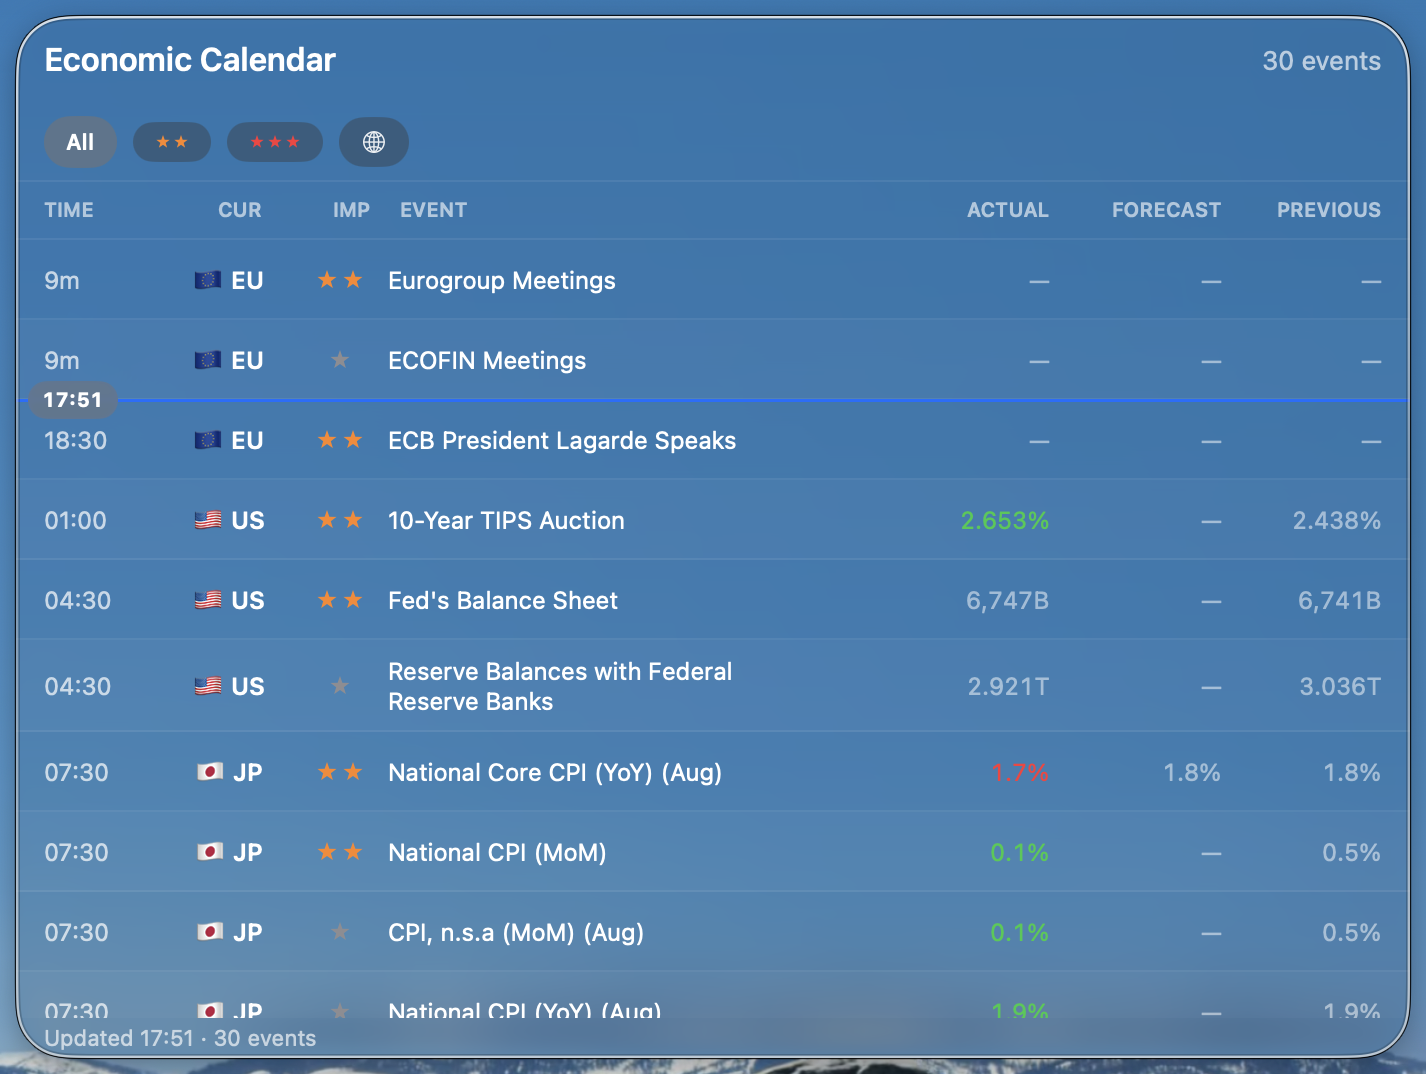
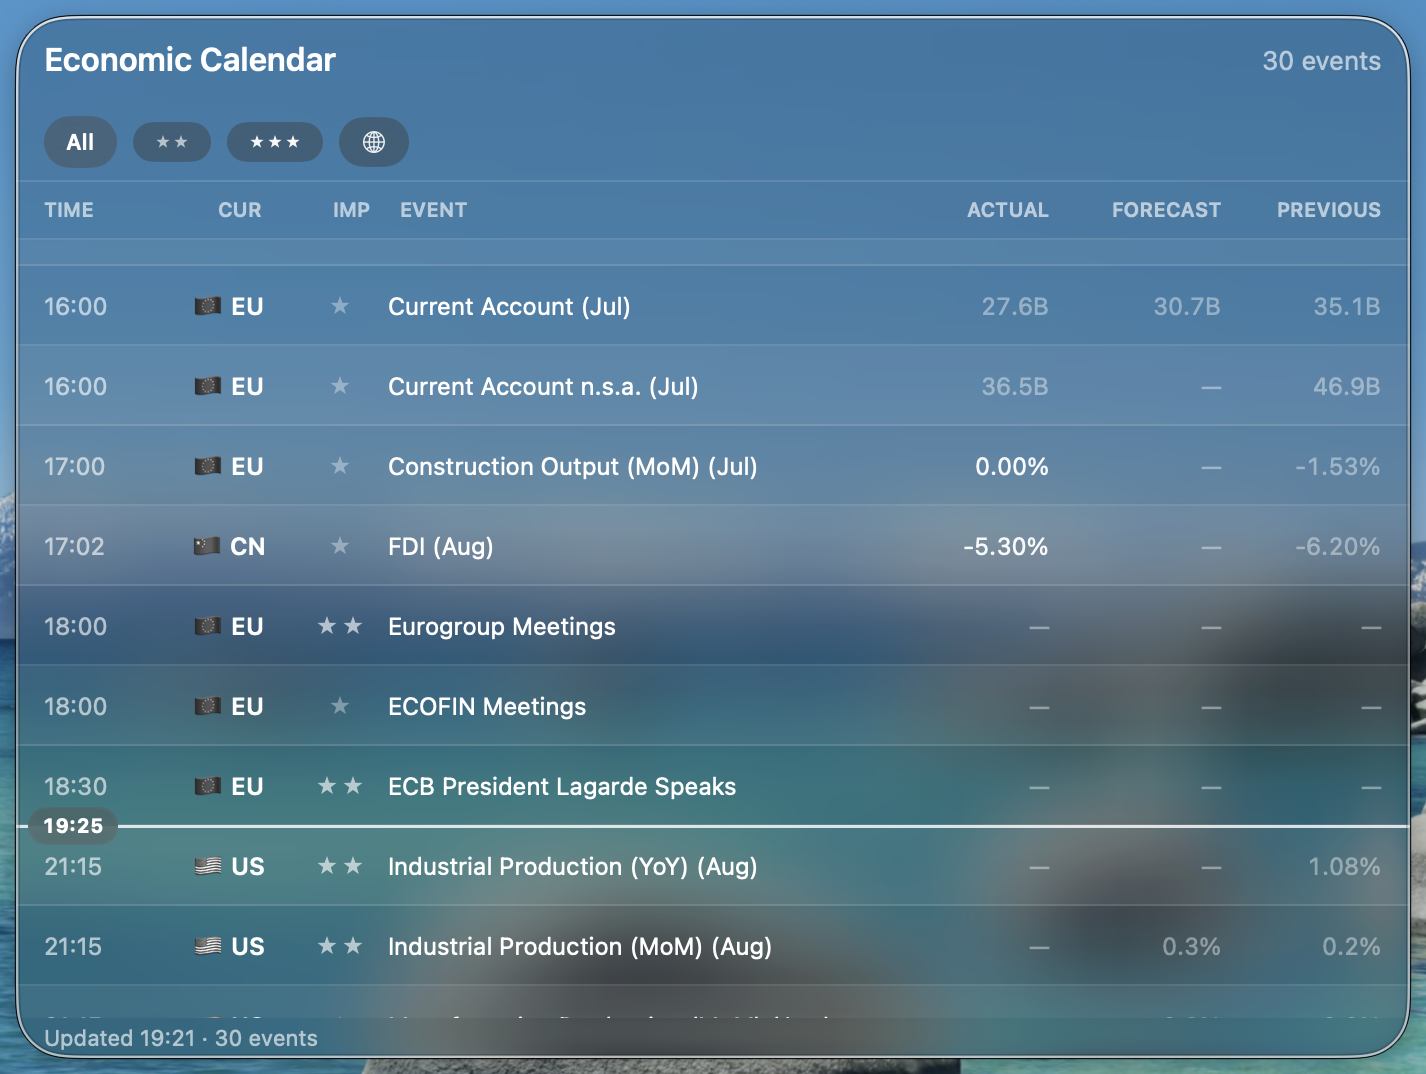
Make the unfocused card follow the appearance instead of forcing white text
- Idle (unfocused) content drops to a monochrome brightness ladder with no
  hue left anywhere: importance stars, beat/miss and the now-divider all ride
  on brightness, flag emoji are desaturated with .grayscale(1), row fills and
  hairlines go neutral.
- IdlePalette resolves every tier per appearance (white alpha in dark mode,
  black alpha in light mode) through NSColor(name:dynamicProvider:), so all
  call sites keep using IdlePalette.x and both appearances come out of one
  table. The white-only ladder was the root cause of the LIGHT card reading as
  a dark slab: white text on the bright glass veil is unreadable, so the card
  had to be scrimmed black first.
- Theme.idleVeil replaces that fixed black scrim with an appearance-matched
  one: dark = black 0.10 (pull the glass lift back to the wallpaper's own tone,
  keep white text legible), light = white 0.16 (bright light widget, keep dark
  text legible). The luminous edge ring drops to 0.10 in light mode, where
  0.20 read as a heavy black outline.
- Verified from live captures: light card sits +26 luminance above a bright
  sky wallpaper and 123 over a dark backdrop (RGB 33) => dark-text contrast
  ~4.9; dark-mode rendering is unchanged.
- Docs: README caption and DESIGN.md 3.2 rewritten; all four live screenshots
  retaken.

diff --git a/swift/Sources/EconomicCalendar/UI/Theme.swift b/swift/Sources/EconomicCalendar/UI/Theme.swift
@@ -1,7 +1,9 @@
+import AppKit
 import SwiftUI
 
 /// True while the card is in the translucent native-widget state (idle):
-/// text and icons switch to the white/gray scheme widgets use.
+/// every label and icon renders in the widget's monochrome scheme (white/gray
+/// tiers in dark mode, dark/gray tiers in light mode).
 private struct WidgetIdleKey: EnvironmentKey {
     static let defaultValue = false
 }
@@ -11,6 +13,50 @@ extension EnvironmentValues {
         get { self[WidgetIdleKey.self] }
         set { self[WidgetIdleKey.self] = newValue }
     }
+}
+
+/// Idle (unfocused) palette. Native desktop widgets render their content
+/// monochrome when the desktop isn't frontmost — every label and icon drops to
+/// one brightness tier, with no hue left anywhere. Semantics the focused card
+/// carries with hue (importance, beat/miss) become brightness tiers here.
+///
+/// The ladder is appearance-adaptive: dark mode keeps the white/gray tiers over
+/// dark glass, light mode mirrors them into dark/gray tiers over the bright
+/// glass veil. A white-text card is only readable if the card is scrimmed
+/// black — and that scrim is what made the unfocused LIGHT card read as a
+/// dark-mode slab instead of a light widget.
+enum IdlePalette {
+    /// One neutral tier, resolved by the effective appearance: white at
+    /// `dark` in dark mode, black at `light` in light mode. Both are the same
+    /// ramp — only the anchor flips — so every call site keeps using the plain
+    /// `IdlePalette.x` constant and both appearances come out of one table.
+    private static func tier(light: CGFloat, dark: CGFloat) -> Color {
+        Color(nsColor: NSColor(name: nil) { appearance in
+            appearance.bestMatch(from: [.aqua, .darkAqua]) == .darkAqua
+                ? NSColor(white: 1, alpha: dark)
+                : NSColor(white: 0, alpha: light)
+        })
+    }
+
+    static let primary = tier(light: 0.88, dark: 1.00)
+    static let secondary = tier(light: 0.55, dark: 0.62)
+    static let tertiary = tier(light: 0.30, dark: 0.40)
+    static let hairline = tier(light: 0.09, dark: 0.12)
+
+    static let rowFill = tier(light: 0.04, dark: 0.05)
+    static let highImpactFill = tier(light: 0.07, dark: 0.10)
+    static let highImpactHover = tier(light: 0.11, dark: 0.16)
+
+    /// Neutral replacement for the accent color (now-divider, selected chips).
+    static let accent = tier(light: 0.65, dark: 0.80)
+    static let accentTint = tier(light: 0.12, dark: 0.22)
+
+    static let starLow = tier(light: 0.30, dark: 0.35)
+    static let starMedium = tier(light: 0.55, dark: 0.62)
+    static let starHigh = tier(light: 0.85, dark: 0.95)
+
+    static let beat = tier(light: 0.85, dark: 0.95)
+    static let miss = tier(light: 0.45, dark: 0.55)
 }
 
 /// Shared metrics, dynamic (light/dark adaptive) colors, and formatters.
@@ -33,12 +79,37 @@ enum Theme {
     static let colForecast: CGFloat = 86
     static let colPrevious: CGFloat = 80
 
-    // Importance star colors: 1 gray / 2 orange / 3 red (investing.com scheme).
-    static func importanceColor(_ level: Importance) -> Color {
+    /// Neutral veil the translucent idle card draws over the glass — the one
+    /// layer that makes the card match its appearance's widget look:
+    /// dark mode darkens slightly (the wallpaper's own tone, white text stays
+    /// legible), light mode lifts slightly (the bright light widget, dark text
+    /// stays legible). Without the light half, dark text sits on whatever the
+    /// wallpaper happens to be, and the card reads as a milky see-through film.
+    static func idleVeil(_ scheme: ColorScheme) -> Color {
+        scheme == .dark ? Color.black.opacity(0.10) : Color.white.opacity(0.16)
+    }
+
+    /// Outer dark ring of the "凝光" card edge. The dark card needs a strong
+    /// ring to separate it from the wallpaper; on the bright light card the
+    /// same value reads as a heavy black outline.
+    static func idleRingOpacity(_ scheme: ColorScheme) -> Double {
+        scheme == .dark ? 0.20 : 0.10
+    }
+
+    // Importance star colors: 1 gray / 2 orange / 3 red (investing.com scheme)
+    // when focused; white/gray brightness tiers when idle.
+    static func importanceColor(_ level: Importance, idle: Bool = false) -> Color {
+        if idle {
+            switch level {
+            case .low: return IdlePalette.starLow
+            case .medium: return IdlePalette.starMedium
+            case .high: return IdlePalette.starHigh
+            }
+        }
         switch level {
-        case .low: Color(nsColor: .systemGray)
-        case .medium: Color(nsColor: .systemOrange)
-        case .high: Color(nsColor: .systemRed)
+        case .low: return Color(nsColor: .systemGray)
+        case .medium: return Color(nsColor: .systemOrange)
+        case .high: return Color(nsColor: .systemRed)
         }
     }
 

diff --git a/swift/Sources/EconomicCalendar/UI/EventRowView.swift b/swift/Sources/EconomicCalendar/UI/EventRowView.swift
@@ -41,7 +41,7 @@ struct EventRowView: View {
         .background(rowBackground)
         .overlay(alignment: .bottom) {
             Rectangle()
-                .fill(Color.primary.opacity(0.08))
+                .fill(widgetIdle ? IdlePalette.hairline : Color.primary.opacity(0.08))
                 .frame(height: 1)
         }
         .contentShape(Rectangle())
@@ -62,7 +62,7 @@ struct EventRowView: View {
     private var timeCell: some View {
         Text(event.timeText)
             .font(.system(size: 12))
-            .foregroundStyle(widgetIdle ? Color.white.opacity(0.7) : Color.secondary)
+            .foregroundStyle(widgetIdle ? IdlePalette.secondary : Color.secondary)
             .lineLimit(1)
             .padding(.trailing, 6)
             .help(event.timeLabel == nil
@@ -73,7 +73,10 @@ struct EventRowView: View {
     private var currencyCell: some View {
         Text(Theme.flagLabel(event.currency))
             .font(.system(size: 12, weight: .semibold))
-            .foregroundStyle(widgetIdle ? Color.white : Color.primary)
+            .foregroundStyle(widgetIdle ? IdlePalette.primary : Color.primary)
+            // Flag emoji can't be recolored, so the idle card desaturates it —
+            // the only way to keep a strict black/white/gray palette.
+            .grayscale(widgetIdle ? 1 : 0)
             .lineLimit(1)
             .help(event.currency)
     }
@@ -85,7 +88,7 @@ struct EventRowView: View {
     private var eventCell: some View {
         Text(event.name)
             .font(.system(size: 12))
-            .foregroundStyle(widgetIdle ? Color.white : Color.primary)
+            .foregroundStyle(widgetIdle ? IdlePalette.primary : Color.primary)
             .multilineTextAlignment(.leading)
             .lineLimit(3)
             .fixedSize(horizontal: false, vertical: true)
@@ -98,20 +101,24 @@ struct EventRowView: View {
         Text(text ?? "—")
             .font(.system(size: 12).monospacedDigit())
             .foregroundStyle(color.map { AnyShapeStyle($0) } ?? AnyShapeStyle(
-                widgetIdle ? Color.white.opacity(0.5) : Color(nsColor: .tertiaryLabelColor)))
+                widgetIdle ? IdlePalette.tertiary : Color(nsColor: .tertiaryLabelColor)))
             .lineLimit(1)
             .padding(.leading, 4)
     }
 
-    /// Actual beats forecast → green, misses → red (port of the refresh() logic).
+    /// Actual beats forecast → green, misses → red (port of the refresh()
+    /// logic); in the monochrome idle card the same distinction rides on
+    /// brightness instead of hue.
     private var actualColor: Color? {
         guard let actual = event.actual, !actual.isEmpty else { return nil }
         guard let av = EventParsing.tryFloat(actual) else { return nil }
         let fv = EventParsing.tryFloat(event.forecast)
         if let fv {
-            return av >= fv ? Theme.beatColor : Theme.missColor
+            return av >= fv
+                ? (widgetIdle ? IdlePalette.beat : Theme.beatColor)
+                : (widgetIdle ? IdlePalette.miss : Theme.missColor)
         }
-        return Theme.beatColor
+        return widgetIdle ? IdlePalette.beat : Theme.beatColor
     }
 
     // MARK: Background (port of _bg_for_row)
@@ -119,9 +126,11 @@ struct EventRowView: View {
     private var rowBackground: Color {
         let high = event.isHighImpact
         if hovering {
+            if widgetIdle { return high ? IdlePalette.highImpactHover : IdlePalette.rowFill }
             return high ? Color.red.opacity(0.12) : Color.primary.opacity(0.07)
         }
-        if high { return Color.red.opacity(0.06) }
-        return data.isAlt ? Color.primary.opacity(0.03) : Color.clear
+        if high { return widgetIdle ? IdlePalette.highImpactFill : Color.red.opacity(0.06) }
+        guard data.isAlt else { return Color.clear }
+        return widgetIdle ? IdlePalette.rowFill : Color.primary.opacity(0.03)
     }
 }

diff --git a/swift/Sources/EconomicCalendar/UI/RootView.swift b/swift/Sources/EconomicCalendar/UI/RootView.swift
@@ -4,20 +4,32 @@ import SwiftUI
 struct RootView: View {
     @Environment(AppModel.self) private var model
     @Environment(AppActions.self) private var actions
+    @Environment(\.colorScheme) private var colorScheme
+
+    /// The translucent widget look — monochrome content over widget glass.
+    /// Suppressed in `.solid` (Reduce Transparency), where the card is opaque
+    /// and the system's own label colors already carry the contrast.
+    private var idleLook: Bool { model.isIdle && model.glassMode != .solid }
 
     var body: some View {
         ZStack {
             CardBackground(mode: model.glassMode)
 
+            if model.glassMode != .solid {
+                // Appearance-matched widget veil (see Theme.idleVeil).
+                Theme.idleVeil(colorScheme)
+                    .opacity(model.isIdle ? 1 : 0)
+            }
+
             VStack(spacing: 0) {
                 TitleBarView()
                 FilterBarView()
                 Rectangle()
-                    .fill(Color.primary.opacity(0.08))
+                    .fill(idleLook ? IdlePalette.hairline : Color.primary.opacity(0.08))
                     .frame(height: 1)
                 ColumnHeaderView()
                 Rectangle()
-                    .fill(Color.primary.opacity(0.08))
+                    .fill(idleLook ? IdlePalette.hairline : Color.primary.opacity(0.08))
                     .frame(height: 1)
 
                 ZStack {
@@ -41,7 +53,11 @@ struct RootView: View {
             // inner rim (brighter when idle) — visible on any wallpaper.
             ZStack {
                 RoundedRectangle(cornerRadius: Theme.cornerRadius)
-                    .strokeBorder(Color.black.opacity(model.isIdle ? 0.20 : 0.10), lineWidth: 2)
+                    .strokeBorder(
+                        Color.black.opacity(model.isIdle
+                                            ? Theme.idleRingOpacity(colorScheme)
+                                            : 0.10),
+                        lineWidth: 2)
                 RoundedRectangle(cornerRadius: Theme.cornerRadius)
                     .strokeBorder(
                         LinearGradient(
@@ -54,7 +70,7 @@ struct RootView: View {
                         lineWidth: 1.2)
             }
         }
-        .environment(\.widgetIdle, model.isIdle)
+        .environment(\.widgetIdle, idleLook)
         .contextMenu {
             ContextMenuContent(event: nil)
         }

diff --git a/swift/Sources/EconomicCalendar/UI/ChromeViews.swift b/swift/Sources/EconomicCalendar/UI/ChromeViews.swift
@@ -9,11 +9,11 @@ struct TitleBarView: View {
         HStack(spacing: 8) {
             Text("Economic Calendar")
                 .font(.system(size: 16, weight: .semibold))
-                .foregroundStyle(widgetIdle ? Color.white : Color.primary)
+                .foregroundStyle(widgetIdle ? IdlePalette.primary : Color.primary)
             Spacer()
             Text(model.titleCount)
                 .font(.system(size: 13))
-                .foregroundStyle(widgetIdle ? Color.white.opacity(0.65) : Color.secondary)
+                .foregroundStyle(widgetIdle ? IdlePalette.secondary : Color.secondary)
         }
         .padding(.horizontal, Theme.horizontalPadding)
         .frame(height: Theme.titleBarHeight)
@@ -30,7 +30,7 @@ struct StatusView: View {
         HStack(spacing: 0) {
             Text(model.status)
                 .font(.system(size: 11))
-                .foregroundStyle(widgetIdle ? Color.white.opacity(0.65) : Color.secondary)
+                .foregroundStyle(widgetIdle ? IdlePalette.secondary : Color.secondary)
                 .lineLimit(1)
             Spacer()
         }
@@ -66,7 +66,7 @@ struct ColumnHeaderView: View {
     private func headerLabel(_ title: String, width: CGFloat? = nil, alignment: Alignment = .leading) -> some View {
         Text(title)
             .font(.system(size: 10, weight: .semibold))
-            .foregroundStyle(widgetIdle ? Color.white.opacity(0.6) : Color.secondary)
+            .foregroundStyle(widgetIdle ? IdlePalette.secondary : Color.secondary)
             .lineLimit(1)
             .frame(width: width, alignment: alignment)
     }
@@ -81,7 +81,7 @@ struct WaitingView: View {
             Spacer()
             Text("Waiting for data…")
                 .font(.system(size: 12).italic())
-                .foregroundStyle(widgetIdle ? Color.white.opacity(0.55) : Color(nsColor: .tertiaryLabelColor))
+                .foregroundStyle(widgetIdle ? IdlePalette.tertiary : Color(nsColor: .tertiaryLabelColor))
             Spacer()
         }
         .frame(maxWidth: .infinity, maxHeight: .infinity)

diff --git a/swift/Sources/EconomicCalendar/UI/FilterBarView.swift b/swift/Sources/EconomicCalendar/UI/FilterBarView.swift
@@ -32,13 +32,13 @@ struct ImportanceFilterChips: View {
         let selected = model.minImportance == threshold
         label()
             .foregroundStyle(selected
-                             ? Color.white
-                             : (widgetIdle ? Color.white.opacity(0.9) : Color.primary.opacity(0.85)))
+                             ? (widgetIdle ? IdlePalette.primary : Color.white)
+                             : (widgetIdle ? IdlePalette.primary.opacity(0.9) : Color.primary.opacity(0.85)))
             .padding(.horizontal, 11)
             .padding(.vertical, 6)
             .glassEffect(
                 selected
-                    ? Glass.regular.tint(Color.accentColor)
+                    ? Glass.regular.tint(widgetIdle ? IdlePalette.accentTint : Color.accentColor)
                     : Glass.regular,
                 in: .capsule)
             .contentShape(.capsule)
@@ -70,14 +70,14 @@ struct CurrencyFilterButton: View {
         }
         .foregroundStyle(
             model.selectedCurrencies.isEmpty
-                ? (widgetIdle ? Color.white.opacity(0.9) : Color.primary.opacity(0.85))
-                : Color.white)
+                ? (widgetIdle ? IdlePalette.primary.opacity(0.9) : Color.primary.opacity(0.85))
+                : (widgetIdle ? IdlePalette.primary : Color.white))
         .padding(.horizontal, 11)
         .padding(.vertical, 6)
         .glassEffect(
             model.selectedCurrencies.isEmpty
                 ? Glass.regular
-                : Glass.regular.tint(Color.accentColor),
+                : Glass.regular.tint(widgetIdle ? IdlePalette.accentTint : Color.accentColor),
             in: .capsule)
         .contentShape(.capsule)
         .onTapGesture { showingPopover = true }

diff --git a/swift/Sources/EconomicCalendar/UI/NowDividerView.swift b/swift/Sources/EconomicCalendar/UI/NowDividerView.swift
@@ -9,6 +9,8 @@ import SwiftUI
 /// outside the list, so it is drawn entirely below/above the line instead —
 /// the divider stays fully visible at the top/bottom of the list.
 struct NowDividerView: View {
+    @Environment(\.widgetIdle) private var widgetIdle
+
     let position: DisplayRow.Position
 
     var body: some View {
@@ -16,17 +18,19 @@ struct NowDividerView: View {
             let label = Theme.hhmm(context.date)
             ZStack(alignment: .leading) {
                 Rectangle()
-                    .fill(Color.accentColor)
+                    .fill(widgetIdle ? IdlePalette.accent : Color.accentColor)
                     .frame(height: 1.5)
                     .offset(y: lineOffset)
 
                 Text(label)
                     .font(.system(size: 10, weight: .bold))
                     .monospacedDigit()
-                    .foregroundStyle(.white)
+                    .foregroundStyle(widgetIdle ? IdlePalette.primary : Color.white)
                     .padding(.horizontal, 7)
                     .padding(.vertical, 3)
-                    .glassEffect(.regular.tint(Color.accentColor), in: .capsule)
+                    .glassEffect(
+                        .regular.tint(widgetIdle ? IdlePalette.accentTint : Color.accentColor),
+                        in: .capsule)
                     .padding(.leading, 6)
                     .offset(y: pillOffset)
             }

diff --git a/swift/Sources/EconomicCalendar/UI/StarsView.swift b/swift/Sources/EconomicCalendar/UI/StarsView.swift
@@ -24,6 +24,8 @@ struct StarShape: Shape {
 }
 
 struct StarsView: View {
+    @Environment(\.widgetIdle) private var widgetIdle
+
     let level: Importance
     var size: CGFloat = 11
     var gap: CGFloat = 2
@@ -32,7 +34,7 @@ struct StarsView: View {
         HStack(spacing: gap) {
             ForEach(0..<level.rawValue, id: \.self) { _ in
                 StarShape()
-                    .fill(Theme.importanceColor(level))
+                    .fill(Theme.importanceColor(level, idle: widgetIdle))
                     .frame(width: size, height: size)
             }
         }

diff --git a/docs/DESIGN.md b/docs/DESIGN.md
@@ -99,7 +99,13 @@ Economic Calendar 是一个 **macOS 桌面经济日历小组件**：以浮层卡
 
 **材质实现的关键坑（两次踩坑）**：① SwiftUI `.glassEffect` 在透明无边框窗口里对窗外内容是**快照式采样** —— 可读态用它背景"冻住"不跟随壁纸；② 即便闲置态用 `Glass.clear`，只要用 `if/else` 分支切换玻璃视图，**销毁重建后的 glassEffect 不再初始化背景采样**，透明凝光态一次交互后就回不来了。最终方案：卡片两态共用**一块** AppKit `NSGlassEffectView`（系统 widget 同源、活体采样），只切 `style`（可读 `.regular` ↔ 透明 `.clear`，经 `onInteractingChange` 回调驱动），SwiftUI 层不画任何卡片玻璃。注意：**`style` 的 setter 会重置 `cornerRadius`**，每次切换后必须重设圆角（配合 `wantsLayer`+`masksToBounds`），否则方形玻璃直角会从圆角内容后露出。
 
-透明态完整复刻 widget 视觉：全部文字/图标切换为白灰色系（环境键 `widgetIdle` 驱动，各视图前景色随动），卡片边缘叠加"外暗内亮"双环**凝光描边**（任何壁纸上可见）。切换用 `withAnimation` 0.35s 过渡，两种外观自动适配。
+**透明态 = 原生 widget 的单色态**（对齐系统桌面 widget 失焦后的观感）：环境键 `widgetIdle` 驱动，全部内容落到 `IdlePalette` 的单色亮度阶梯——**卡片里不存在任何色相**。原有用颜色承载的语义改成亮度承载：重要性 ★≥★★≥★★★ 三级灰阶、实际值 beat/miss 用明暗区分；强调色（时间分割线、选中筛选 chips）换中性色；旗帜 emoji 无法改色，用 `.grayscale(1)` 去饱和；连行分隔线、"高重要性"行底色、hover 底色也换成中性色。卡片边缘叠加"外暗内亮"双环**凝光描边**（任何壁纸上可见）。切换用 `withAnimation` 0.35s 过渡。
+
+**亮度阶梯随外观翻转（本轮修复）**：单色阶梯不是"白字一套"。`IdlePalette` 的每一档都由 `NSColor(name:dynamicProvider:)` 按当前外观解析——深色 = 白 α 阶梯，浅色 = 黑 α 阶梯（同一张表两套锚点）。曾经的实现两态都用白字，于是浅色下必须靠一层黑补偿压暗卡片才能让白字看得见，结果是**浅色失焦态变成一块深灰板子**（用户反馈"跟 dark mode 一样黑"）。浅色用户看到的是浅色桌面与浅色原生 widget（实测系统提醒 widget 是近白的亮玻璃），白字卡片在这个语境里本身就是异类。现在浅色直接翻成深字，不再需要压暗。
+
+**中性补偿层随外观翻转**：Liquid Glass `.clear` 会抬亮并去饱和背景（同一位置实测 +0.21 线性亮度，"奶感"来源），所以透明态在玻璃之上、内容之下叠一层 `Theme.idleVeil`：深色 = 黑 0.10（把卡片拉回壁纸自己的色调，白字有对比度），浅色 = 白 0.16（把卡片提成亮玻璃，深字有对比度，也更贴近浅色原生 widget 的近白观感）。实测（同一位置对比卡片内外）：浅色天空壁纸下卡片 +26 亮度、深灰背景（RGB 33）下卡片 123（深字对比度 ≈4.9）。凝光外暗环同样随外观降档（深色 0.20 / 浅色 0.10），否则浅色卡片上那圈黑边过重。
+
+两点边界：① 补偿层只在非 `.solid` 档位生效，`.solid`（降低透明度）下卡片不透明、内容保持系统语义色；② 补偿是乘性的，无法完全复刻 widget 材质的"零抬亮"（亮背景上仍会略偏亮），要彻底一致只能等系统开放 widget 材质 API。
 
 三级降级链（`GlassMode`）：
 

diff --git a/README.md b/README.md
@@ -12,7 +12,7 @@
 | **聚焦 / 桌面聚焦**（可读态） | ![聚焦浅色](docs/screenshot-focused-light.png) | ![聚焦深色](docs/screenshot-focused-dark.png) |
 | **其他窗口聚焦**（透明态） | ![闲置浅色](docs/screenshot-idle-light.png) | ![闲置深色](docs/screenshot-idle-dark.png) |
 
-↑ 实拍：对齐原生桌面 widget 的两种状态 —— 聚焦时为可读的 Liquid Glass 毛玻璃；其他窗口聚焦时淡化为透明磨砂，文字图标切换白灰色系，卡片边缘带凝光高亮。当前时间分割线（胶囊）插在两行分界处并逐分钟刷新，材质实时透出并跟随桌面壁纸。
+↑ 实拍：对齐原生桌面 widget 的两种状态 —— 聚焦时为可读的 Liquid Glass 毛玻璃；其他窗口聚焦时淡化为透明磨砂，**文字与图标切换为单色亮度阶梯**（颜色语义改用亮度表达：★ 重要性三级灰阶、涨跌用明暗区分），并随外观叠一层中性补偿：深色压暗成暗玻璃 widget、浅色提亮成亮玻璃 widget（深色白字、浅色深字，任何壁纸上都保持对比度）。卡片边缘带凝光高亮。当前时间分割线（胶囊）插在两行分界处并逐分钟刷新，材质实时透出并跟随桌面壁纸。
 
 ## 为什么是它
 
